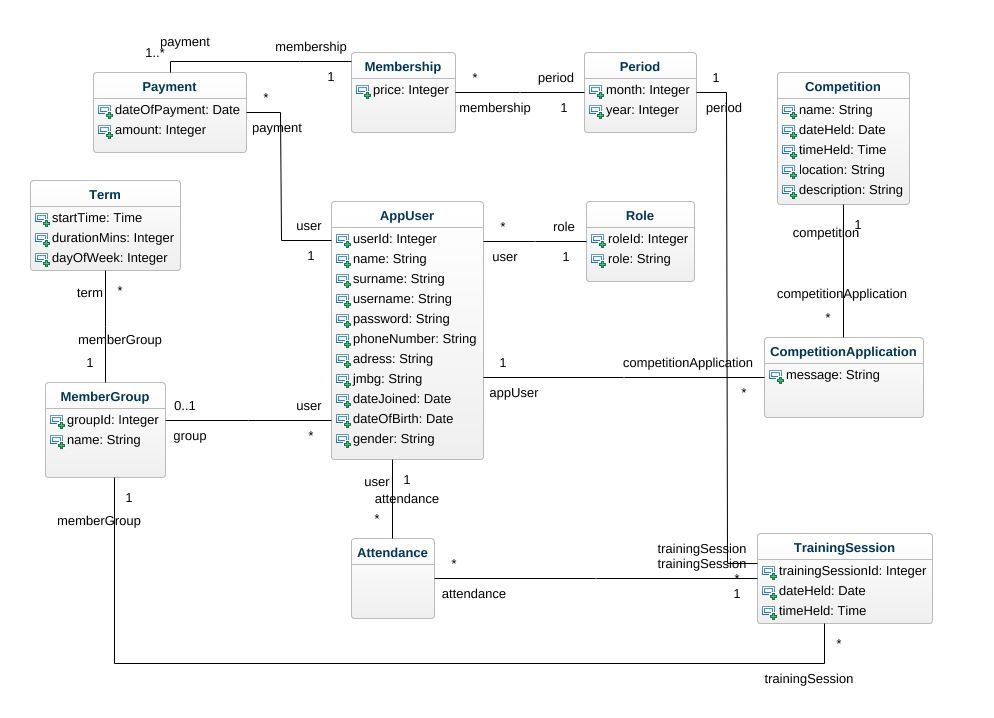
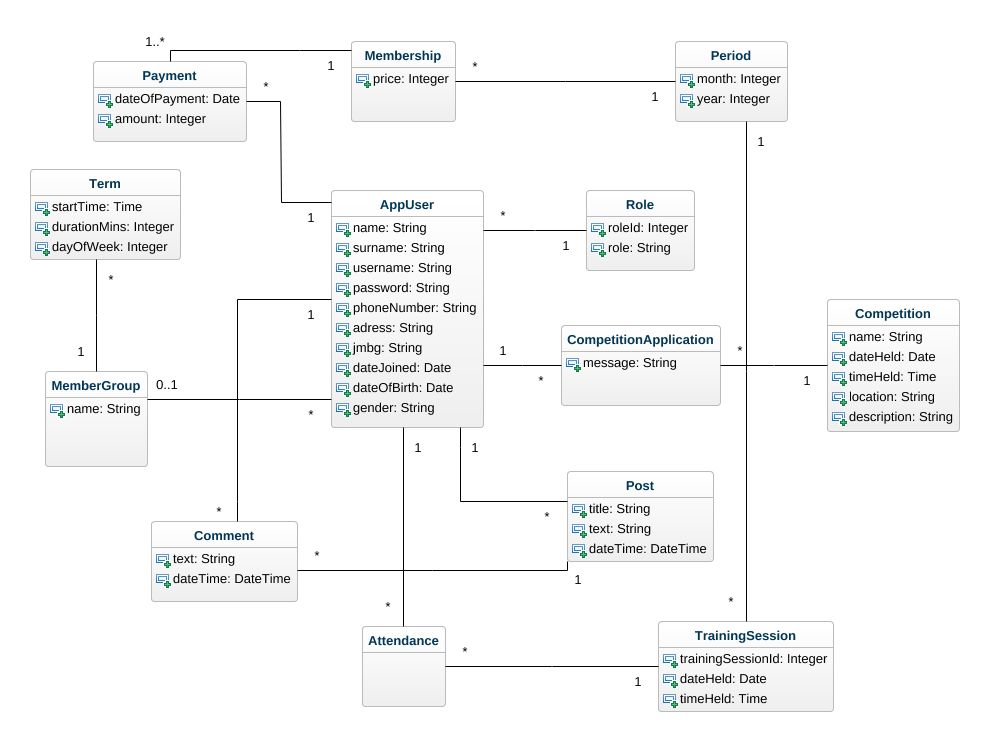
Notify by email of new posts/comments

diff --git a/src/main/java/com/eryce/sportsclub/services/CommentService.java b/src/main/java/com/eryce/sportsclub/services/CommentService.java
@@ -1,12 +1,61 @@
 package com.eryce.sportsclub.services;
 
+import com.eryce.sportsclub.dto.CommentRequestDTO;
+import com.eryce.sportsclub.dto.PostRequestDTO;
+import com.eryce.sportsclub.models.Comment;
+import com.eryce.sportsclub.models.Post;
 import com.eryce.sportsclub.repositories.CommentRepository;
+import com.eryce.sportsclub.repositories.PostRepository;
 import org.springframework.beans.factory.annotation.Autowired;
+import org.springframework.http.HttpStatus;
+import org.springframework.http.ResponseEntity;
 import org.springframework.stereotype.Service;
+
+import java.util.ArrayList;
+import java.util.Collections;
+import java.util.List;
 
 @Service
 public class CommentService {
 
     @Autowired
     private CommentRepository commentRepository;
+    @Autowired
+    private PostRepository postRepository;
+    @Autowired
+    private MailService mailService;
+    @Autowired
+    private AppUserService appUserService;
+
+    public List<Comment> getByPost(Integer postId) {
+        Post post = postRepository.getOne(postId);
+        List<Comment> comments = commentRepository.findAllByPost(post);
+        Collections.reverse(comments);
+        return comments;
+    }
+
+    public ResponseEntity<Comment> insert(CommentRequestDTO commentRequestDTO) {
+        commentRepository.save(commentRequestDTO.generateComment());
+
+        List<String> participants = getParticipantsInPostEmails(commentRequestDTO.getPost());
+
+        mailService.sendNewCommentMessageToParticipants(participants,commentRequestDTO);
+        return new ResponseEntity<>(HttpStatus.OK);
+    }
+
+    private List<String> getParticipantsInPostEmails(PostRequestDTO post) {
+        List<String>emails = new ArrayList<>();
+        emails.add(post.getAppUser().getUsername());//post author
+
+        for(Comment comment:getByPost(post.getId()))
+         //authors of comments in the post
+            emails.add(comment.getAppUser().getUsername());
+        return emails;
+    }
+
+    public ResponseEntity<Comment> delete(Integer id)
+    {
+        commentRepository.deleteById(id);
+        return new ResponseEntity<>(HttpStatus.OK);
+    }
 }

diff --git a/src/main/java/com/eryce/sportsclub/services/PostService.java b/src/main/java/com/eryce/sportsclub/services/PostService.java
@@ -1,13 +1,16 @@
 package com.eryce.sportsclub.services;
 
 import com.eryce.sportsclub.dto.PostRequestDTO;
+import com.eryce.sportsclub.models.Comment;
 import com.eryce.sportsclub.models.Post;
+import com.eryce.sportsclub.repositories.CommentRepository;
 import com.eryce.sportsclub.repositories.PostRepository;
 import org.springframework.beans.factory.annotation.Autowired;
 import org.springframework.http.HttpStatus;
 import org.springframework.http.ResponseEntity;
 import org.springframework.stereotype.Service;
 
+import java.util.Collections;
 import java.util.List;
 
 @Service
@@ -19,9 +22,17 @@ public class PostService {
     private MailService mailService;
     @Autowired
     private AppUserService appUserService;
+    @Autowired
+    private CommentRepository commentRepository;
 
     public List<Post> getAll() {
-        return postRepository.findAll();
+        List<Post> posts=postRepository.findAll();
+        Collections.reverse(posts); //we want the last comment to be on top
+        return posts;
+    }
+
+    public Post getById(Integer id) {
+        return postRepository.getOne(id);
     }
 
     public ResponseEntity<Post> insert(PostRequestDTO postRequestDTO) {
@@ -31,7 +42,14 @@ public class PostService {
     }
 
     public ResponseEntity<Post> delete(Integer id) {
+        deleteCommentsOnPost(id);
         postRepository.deleteById(id);
         return new ResponseEntity<>(HttpStatus.OK);
+    }
+
+    public void deleteCommentsOnPost(Integer postId)
+    {
+        for(Comment comment : commentRepository.findAllByPost(getById(postId)))
+            commentRepository.delete(comment);
     }
 }

diff --git a/src/main/java/com/eryce/sportsclub/dto/CommentRequestDTO.java b/src/main/java/com/eryce/sportsclub/dto/CommentRequestDTO.java
@@ -1,0 +1,66 @@
+package com.eryce.sportsclub.dto;
+
+import com.eryce.sportsclub.models.Comment;
+
+import java.time.LocalDateTime;
+
+public class CommentRequestDTO {
+
+    private Integer id;
+    private String text;
+    private LocalDateTime dateTime;
+    private PostRequestDTO post;
+    private AppUserRequestDTO appUser;
+
+    public Integer getId() {
+        return id;
+    }
+
+    public void setId(Integer id) {
+        this.id = id;
+    }
+
+    public String getText() {
+        return text;
+    }
+
+    public void setText(String text) {
+        this.text = text;
+    }
+
+    public LocalDateTime getDateTime() {
+        return dateTime;
+    }
+
+    public void setDateTime(LocalDateTime dateTime) {
+        this.dateTime = dateTime;
+    }
+
+    public PostRequestDTO getPost() {
+        return post;
+    }
+
+    public void setPost(PostRequestDTO post) {
+        this.post = post;
+    }
+
+    public AppUserRequestDTO getAppUser() {
+        return appUser;
+    }
+
+    public void setAppUser(AppUserRequestDTO appUser) {
+        this.appUser = appUser;
+    }
+
+    public Comment generateComment()
+    {
+        Comment comment = new Comment();
+        if(this.id!=null)
+            comment.setId(this.id);
+        comment.setText(this.text);
+        comment.setDateTime(this.dateTime);
+        comment.setAppUser(appUser.generateAppUser());
+        comment.setPost(post.generatePost());
+        return comment;
+    }
+}

diff --git a/src/main/java/com/eryce/sportsclub/services/MailService.java b/src/main/java/com/eryce/sportsclub/services/MailService.java
@@ -5,6 +5,7 @@ import com.eryce.sportsclub.constants.Routes;
 import java.util.ArrayList;
 import java.util.List;
 
+import com.eryce.sportsclub.dto.CommentRequestDTO;
 import com.eryce.sportsclub.dto.CompetitionApplicationRequestDTO;
 import com.eryce.sportsclub.dto.PostRequestDTO;
 import com.eryce.sportsclub.models.AppUser;
@@ -80,6 +81,13 @@ public class MailService {
         this.sendMessageAsync(createEmailMessage(recipients,subject,body));
     }
 
+    public void sendNewCommentMessageToParticipants(List<String> recipients, CommentRequestDTO commentRequestDTO) {
+        String subject = "New comment by "+commentRequestDTO.getAppUser().getName()+ " "+commentRequestDTO.getAppUser().getSurname();
+        String body=commentRequestDTO.getAppUser().getName()+ " "+commentRequestDTO.getAppUser().getSurname()+" commented on the post '"+
+                commentRequestDTO.getPost().getTitle()+"'.\n\n'"+commentRequestDTO.getText()+"'";
+        this.sendMessageAsync(createEmailMessage(recipients,subject,body));
+    }
+
     public SimpleMailMessage createEmailMessage(List<String>recipients,String subject,String body)
     {
         SimpleMailMessage simpleMailMessage = new SimpleMailMessage();
@@ -94,4 +102,6 @@ public class MailService {
         Thread sendMailThread = new Thread(() -> javaMailSender.send(emailMessage));
         sendMailThread.start();
     }
+
+
 }

diff --git a/src/main/java/com/eryce/sportsclub/controllers/CommentController.java b/src/main/java/com/eryce/sportsclub/controllers/CommentController.java
@@ -2,11 +2,15 @@ package com.eryce.sportsclub.controllers;
 
 import com.eryce.sportsclub.constants.Authorize;
 import com.eryce.sportsclub.constants.Routes;
+import com.eryce.sportsclub.dto.CommentRequestDTO;
+import com.eryce.sportsclub.models.Comment;
 import com.eryce.sportsclub.services.CommentService;
 import org.springframework.beans.factory.annotation.Autowired;
+import org.springframework.http.ResponseEntity;
 import org.springframework.security.access.prepost.PreAuthorize;
-import org.springframework.web.bind.annotation.RequestMapping;
-import org.springframework.web.bind.annotation.RestController;
+import org.springframework.web.bind.annotation.*;
+
+import java.util.List;
 
 @RestController
 @RequestMapping(Routes.COMMENT_BASE)
@@ -15,4 +19,22 @@ public class CommentController {
 
     @Autowired
     private CommentService commentService;
+
+    @GetMapping("post/{postId}")
+    public List<Comment> getByPost(@PathVariable("postId")Integer postId)
+    {
+        return commentService.getByPost(postId);
+    }
+
+    @PostMapping
+    public ResponseEntity<Comment> insert(@RequestBody CommentRequestDTO commentRequestDTO)
+    {
+        return commentService.insert(commentRequestDTO);
+    }
+
+    @DeleteMapping("{id}")
+    public ResponseEntity<Comment> delete(@PathVariable("id")Integer id)
+    {
+        return commentService.delete(id);
+    }
 }

diff --git a/src/main/java/com/eryce/sportsclub/services/AppUserService.java b/src/main/java/com/eryce/sportsclub/services/AppUserService.java
@@ -39,6 +39,10 @@ public class AppUserService implements UserDetailsService {
     private CompetitionRepository competitionRepository;
     @Autowired
     private CompetitionApplicationRepository competitionApplicationRepository;
+    @Autowired
+    private CommentRepository commentRepository;
+    @Autowired
+    private PostRepository postRepository;
 
     public List<AppUser> getAll()
     {
@@ -233,8 +237,20 @@ public class AppUserService implements UserDetailsService {
         deleteAttendancesForUser(appUser);
         deletePaymentsForUser(appUser);
         deleteApplicationsForUser(appUser);
+        deleteCommentsByUser(appUser);
+        deletePostsByUser(appUser);
         appUserRepository.deleteById(id);
         return new ResponseEntity<>(HttpStatus.OK);
+    }
+
+    private void deleteCommentsByUser(AppUser appUser) {
+        for(Comment comment: commentRepository.findAllByAppUser(appUser))
+            commentRepository.delete(comment);
+    }
+
+    private void deletePostsByUser(AppUser appUser) {
+        for(Post post : postRepository.findAllByAppUser(appUser))
+            postRepository.delete(post);
     }
 
     private void deleteAttendancesForUser(AppUser appUser)

diff --git a/src/main/java/com/eryce/sportsclub/repositories/CommentRepository.java b/src/main/java/com/eryce/sportsclub/repositories/CommentRepository.java
@@ -1,7 +1,13 @@
 package com.eryce.sportsclub.repositories;
 
+import com.eryce.sportsclub.models.AppUser;
 import com.eryce.sportsclub.models.Comment;
+import com.eryce.sportsclub.models.Post;
 import org.springframework.data.jpa.repository.JpaRepository;
 
+import java.util.List;
+
 public interface CommentRepository extends JpaRepository<Comment,Integer> {
+    List<Comment> findAllByPost(Post post);
+    List<Comment> findAllByAppUser(AppUser appUser);
 }

diff --git a/src/main/java/com/eryce/sportsclub/repositories/PostRepository.java b/src/main/java/com/eryce/sportsclub/repositories/PostRepository.java
@@ -1,7 +1,11 @@
 package com.eryce.sportsclub.repositories;
 
+import com.eryce.sportsclub.models.AppUser;
 import com.eryce.sportsclub.models.Post;
 import org.springframework.data.jpa.repository.JpaRepository;
 
+import java.util.List;
+
 public interface PostRepository extends JpaRepository<Post,Integer> {
+    List<Post> findAllByAppUser(AppUser appUser);
 }

diff --git a/src/main/java/com/eryce/sportsclub/controllers/PostController.java b/src/main/java/com/eryce/sportsclub/controllers/PostController.java
@@ -26,6 +26,12 @@ public class PostController {
         return postService.getAll();
     }
 
+    @GetMapping("{id}")
+    public Post getById(@PathVariable("id")Integer id)
+    {
+        return postService.getById(id);
+    }
+
     @PostMapping
     public ResponseEntity<Post> insert(@RequestBody PostRequestDTO postRequestDTO)
     {
